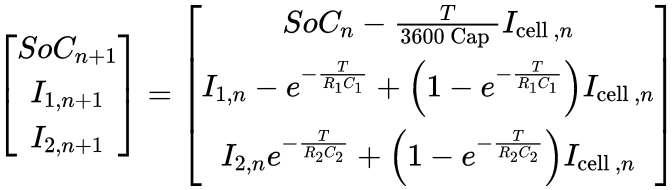
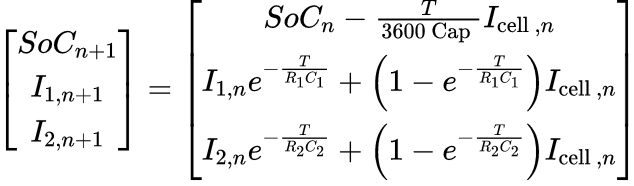
Fixed issue with Readme image. Made entire KF as a function

Changed region(s): [[0.0, 0.0, 1.0, 0.9946], [0.4196, 0.0, 0.8691, 0.2688]]

diff --git a/main.py b/main.py
@@ -15,45 +15,45 @@ from Extras.Simulation_profiles import V_Quadratic, V_linear
 # output equation:
 # y_n = OCV(SOC_n) - R0*I_cell_n - R1*I1_n - R2*I2_n
 
-# DATA ACQUISITION
-SOC = np.zeros_like(T)
-SOC_measured = np.zeros_like(T)
-I1 = np.zeros_like(T)
-I2 = np.zeros_like(T)
 
-# For Simulation purposes
+# Data needed 
 v_measured = V_min  # choose the profile you want from Simulation profiles(like a pleb) or choose actual data
 I = Current
-I_calc = v_measured / R_internal_total
-ycalc = np.zeros_like(T)
-Power_used = np.zeros_like(T)
-Energy_used = np.zeros_like(T)
 
-# Noise settings
-# The Process noise matrix assumes that the noise is a result of the parameters used in matrices A and B
-# Q = J*Qp*J^T
-# Due to a lack of information, the Q matrix is assumed here instead of calculated
+#The entire KF has been made into a function
+def KF(T, e1, e2, dt, Cap, R0, R1, R2, v_measured, I):
 
-Q = np.diag([1E-4 ** 2,
-             1E-3 ** 2,
-             1E-6 ** 2])  # This is an estimation based on https://ntnuopen.ntnu.no/ntnu-xmlui/handle/11250/2560145
+    #Setting arrays
+    ycalc = np.zeros_like(T)
+    Power_used = np.zeros_like(T)
+    Energy_used = np.zeros_like(T)
+    SOC = np.zeros_like(T)
+    SOC_measured = np.zeros_like(T)
+    I1 = np.zeros_like(T)
+    I2 = np.zeros_like(T)
+    # Noise settings
+    # The Process noise matrix assumes that the noise is a result of the parameters used in matrices A and B
+    # Q = J*Qp*J^T
+    # Due to a lack of information, the Q matrix is assumed here instead of calculated
 
-R = sigma_i ** 2  # measurement noise matrix
-# This assumes that the only source of noise in the output equation will be the voltage sensor
+    Q = np.diag([1E-4 ** 2,
+                1E-3 ** 2,
+                1E-6 ** 2])  # This is an estimation based on https://ntnuopen.ntnu.no/ntnu-xmlui/handle/11250/2560145
 
-# Initialisation
-xhat = np.array([[1.0],
-                 [0.0],
-                 [0.0]])  # state initialisation
-Phat = np.diag([1, 1E-4 ** 2, 1E-4 ** 2])  # initial state error
+    R = sigma_i ** 2  # measurement noise matrix
+    # This assumes that the only source of noise in the output equation will be the voltage sensor
 
-u = I
-P = Phat
+    # Initialisation
+    xhat = np.array([[1.0],
+                    [0.0],
+                    [0.0]])  # state initialisation
+    Phat = np.diag([1, 1E-4 ** 2, 1E-4 ** 2])  # initial state error
+    # These values are based off estimates from: https://ntnuopen.ntnu.no/ntnu-xmlui/handle/11250/2560145
+
+    u = I
+    P = Phat
 
 
-# These values are based off estimates from: https://ntnuopen.ntnu.no/ntnu-xmlui/handle/11250/2560145
-
-def KF(e1, T, xhat, Phat, e2, dt, Cap, R0, R1, R2, v_measured, I, SOC, SOC_measured, ycalc):
     for i in range(0, len(T)):
         print("Percentage completion:", i / len(T) * 100, "%")
         if i == 0:
@@ -82,6 +82,8 @@ def KF(e1, T, xhat, Phat, e2, dt, Cap, R0, R1, R2, v_measured, I, SOC, SOC_measu
 
         # Prediction step
         xp = A @ x + B * u  # Predicting state
+
+        #This is just to make sure that the program does not crash when using the OVC-SOC relationship
         if xp[0][0] < 0:
             xp[0][0] = 0
         elif xp[0][0] > 1:
@@ -112,16 +114,12 @@ def KF(e1, T, xhat, Phat, e2, dt, Cap, R0, R1, R2, v_measured, I, SOC, SOC_measu
     return ycalc, SOC, SOC_measured, Energy_used
 
 
-ycalculated, SOC_calculated, SOC_v_min, Energy = KF(T=T, xhat=xhat, Phat=Phat, e1=e1, e2=e2, dt=dt, Cap=Cap, R0=R0,
-                                                    R1=R1, R2=R2, v_measured=v_measured, I=I, SOC=SOC,
-                                                    SOC_measured=SOC_measured, ycalc=ycalc)
+ycalculated, SOC_calculated, SOC_v_min, Energy = KF(T=T, e1=e1, e2=e2, dt=dt, Cap=Cap, R0=R0,
+                                                    R1=R1, R2=R2, v_measured=v_measured, I=I)
 #
-error_voltage = abs(v_measured - np.array(ycalc))
-error_SOC = abs(SOC_measured - SOC)
+error_voltage = abs(v_measured - np.array(ycalculated))
 avg_error_voltage = sum(error_voltage) / len(error_voltage)
-avg_error_SOC = sum(error_SOC) / len(error_SOC)
 print(avg_error_voltage)
-print(avg_error_SOC)
 
 fig, axs = plt.subplots(3, 1, sharex=True)
 axs[0].plot(T, v_measured, label="Measured")

diff --git a/BatteryParams.py b/BatteryParams.py
@@ -1,7 +1,7 @@
 import numpy as np
-from Data_Import import Time_Endurance as T
-from Data_Import import V_min_Endurance as V_min
-from Data_Import import Current_Endurance as Current
+from Data_Import import Time_FSA as T
+from Data_Import import V_min_FSA as V_min
+from Data_Import import Current_FSA as Current
 # %% LiPo cell transient model (linear)
 
 # electrical model for real LiPo cell:
@@ -24,7 +24,7 @@ dt = T[1]-T[0]
 Tend = T[-1]
 
 
-R_internal_total = 4.2e-3  # assumption based on:
+R_internal_total = 4.2e-3  # assumption based on an old Battery Simulator
 R1 = 0.001 #0.2 * R_internal_total
 C1 = 1E3
 R2 = 0.005 #0.3 * R_internal_total/home/sheharyar/SOC-Estimation
@@ -36,4 +36,4 @@ Cap = 6.55  # [Ah] assumed to be same as nominal capacity
 e1 = np.exp(-dt / (R1 * C1))
 e2 = np.exp(-dt / (R2 * C2))
 
-sigma_i = 0.5  # current sensor precision
+sigma_i = 0.5  # current sensor precision from the datasheet

diff --git a/Data_Import.py b/Data_Import.py
@@ -3,8 +3,8 @@ import matplotlib.pyplot as plt
 import csv
 from OCV_Calculation import plotter
 
-file_1 = open("/home/sheharyar/SOC-Estimation/DUT19_FSA.csv")  # the full path is needed to run the Optimisation file
-file_2 = open("/home/sheharyar/SOC-Estimation/DUT19_Vmin+current.csv")
+file_1 = open("DUT19_FSA.csv")  # the full path is needed to run the Optimisation file
+file_2 = open("DUT19_Vmin+current.csv")
 type(file_1)
 type(file_2)
 
